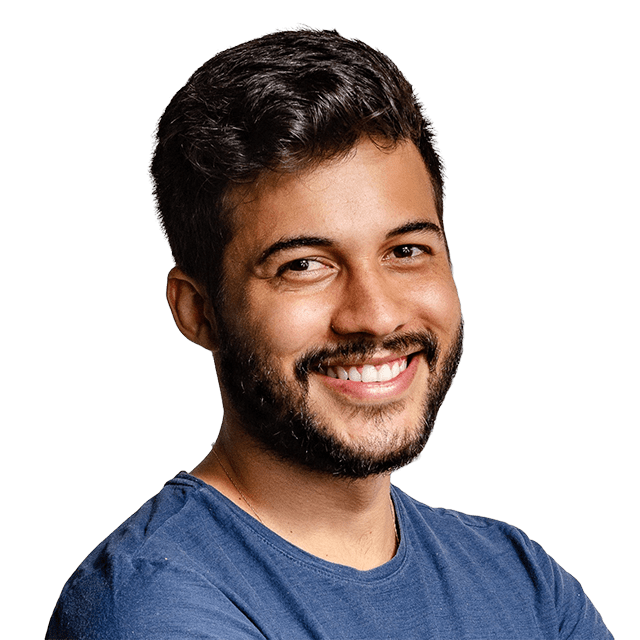
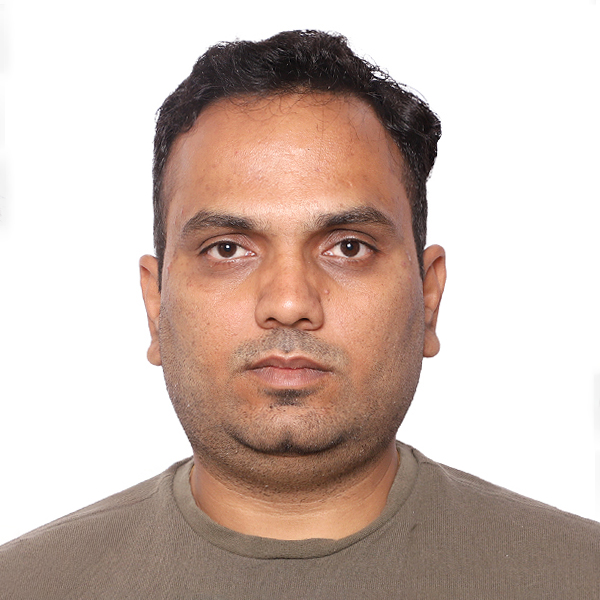
add Mtech content

diff --git a/content/Learn/MTech/sem2/NLP/lec1.md b/content/Learn/MTech/sem2/NLP/lec1.md
@@ -1,0 +1,196 @@
+Course Overview
+Instructor: Naveen Kumar Laskari
+Duration: 16 teaching weeks plus assessments.
+Focus: Understanding Natural Language Processing (NLP), its evolution, applications, and modern AI systems. [Natural La...ar Laskari | Word]
+
+Why NLP Matters
+The instructor emphasized that NLP is already part of daily life through:
+WhatsApp
+ChatGPT
+Gemini
+Copilot
+Claude
+Search engines
+Email assistants
+The course aims to explain how these systems work internally, not just how to use them. [Natural La...ar Laskari | Word]
+
+Course Learning Outcomes
+By the end of the course, students should be able to:
+Understand the fundamentals of NLP.
+Explain computational properties of language.
+Learn algorithms used for language processing.
+Apply mathematical models to NLP problems.
+Understand modern AI and Large Language Models (LLMs).
+Explore current research trends, challenges, and opportunities in NLP. [Natural La...ar Laskari | Word]
+
+Core Topics Covered
+Module 1: NLP Fundamentals
+Introduction to NLP
+Applications of NLP
+Language understanding challenges
+Evaluation of language systems
+Module 2: Vector Semantics & Embeddings
+Word embeddings
+Vector representations
+Word2Vec
+Semantic representations
+Module 3: Language Modeling
+N-gram models
+Statistical language models
+Neural language models
+Next-word prediction
+Module 4: Parts-of-Speech (POS) Tagging
+Hidden Markov Models (HMM)
+Viterbi Algorithm
+Maximum Entropy Models
+Neural POS Taggers
+Module 5: Parsing
+Context-Free Grammars
+Dependency Parsing
+CKY Parsing
+Graph-based Parsing
+Module 6: Transformers & Deep NLP
+Transformer Architecture
+Attention Mechanism
+Encoder-Decoder Models
+BERT
+Pretraining Concepts
+Module 7: Advanced Topics
+Word Sense Disambiguation
+Knowledge Graphs
+Semantic Web
+Ontologies
+Module 8: Modern LLM Systems
+Retrieval Augmented Generation (RAG)
+Chunking
+Retrieval
+Embeddings
+Generation Pipelines
+Prompt Engineering
+Applications
+Text Summarization
+Question Answering
+Machine Translation
+Chatbots
+Information Retrieval [Natural La...ar Laskari | Word]
+
+Important Concepts Discussed
+Word2Vec (2013)
+Google introduced Word2Vec:
+Converts words into numeric vectors.
+Captures semantic relationships between words.
+Major milestone in NLP research. [Natural La...ar Laskari | Word]
+Transformers (2017)
+Proposed by Google.
+Paper:"Attention Is All You Need"
+Foundation of GPT, Gemini, Claude, and modern LLMs. [Natural La...ar Laskari | Word]
+GPT Models
+GPT = Generative Pre-trained Transformer.
+Uses Transformer decoder architecture.
+Generates text autoregressively (one token at a time). [Natural La...ar Laskari | Word]
+Large Language Models (LLMs)
+Examples:
+ChatGPT
+Gemini
+Claude
+Copilot
+DeepSeek
+Llama
+Characteristics:
+Large training datasets.
+Large parameter counts.
+Advanced language generation capabilities. [Natural La...ar Laskari | Word]
+
+Why NLP Is Difficult
+The instructor highlighted several challenges:
+Ambiguity
+Example:
+"Book" = noun (a textbook)
+"Book" = verb (book a ticket)
+Context Understanding
+Machines need more than words:
+Context
+Meaning
+Intent
+Hallucinations
+LLMs can produce incorrect information.
+Bias
+Models learn biases present in data.
+Explainability
+Critical in:
+Healthcare
+Legal systems
+Decision-making systems [Natural La...ar Laskari | Word]
+
+NLP History Timeline
+1950s
+Alan Turing and the Turing Test.
+Early AI concepts. [Natural La...ar Laskari | Word]
+1960s
+Rule-based NLP.
+ELIZA chatbot. [Natural La...ar Laskari | Word]
+1990s
+Statistical NLP.
+Hidden Markov Models.
+Probabilistic approaches. [Natural La...ar Laskari | Word]
+2013
+Word2Vec introduced by Google. [Natural La...ar Laskari | Word]
+2017
+Transformer architecture introduced. [Natural La...ar Laskari | Word]
+2018
+BERT released by Google. [Natural La...ar Laskari | Word]
+2022–Present
+ChatGPT
+GPT-4
+RAG systems
+Open-source models (Llama, DeepSeek, Qwen) [Natural La...ar Laskari | Word]
+
+Recommended Textbook
+Speech and Language Processing
+Authors: Jurafsky & Martin
+Main reference for the course. [Natural La...ar Laskari | Word]
+
+Assessment Pattern
+EC1 (30%)
+3 quizzes (best 2 considered)
+2 assignments
+Midterm Exam (30%)
+Closed-book exam
+Comprehensive Exam (40%)
+Open-book exam
+Assignments involve:
+Python coding
+NLP concepts
+Practical implementation tasks. [Natural La...ar Laskari | Word]
+
+Practical Tools Mentioned
+Hugging Face
+NLTK
+SpaCy
+ChatGPT
+Claude
+Gemini
+Copilot
+DeepSeek
+Llama Models [Natural La...ar Laskari | Word]
+
+Quick Exam-Oriented Takeaways
+NLP = AI + Linguistics + Computer Science.
+Word2Vec (2013) revolutionized embeddings.
+Transformer (2017) is the foundation of modern LLMs.
+GPT uses the Transformer decoder.
+Key topics:
+Embeddings
+Language Models
+POS Tagging
+Parsing
+Transformers
+BERT
+RAG
+Major NLP challenges:
+Ambiguity
+Context
+Hallucinations
+Bias
+Learn practical tools like Hugging Face, NLTK, and SpaCy
+
